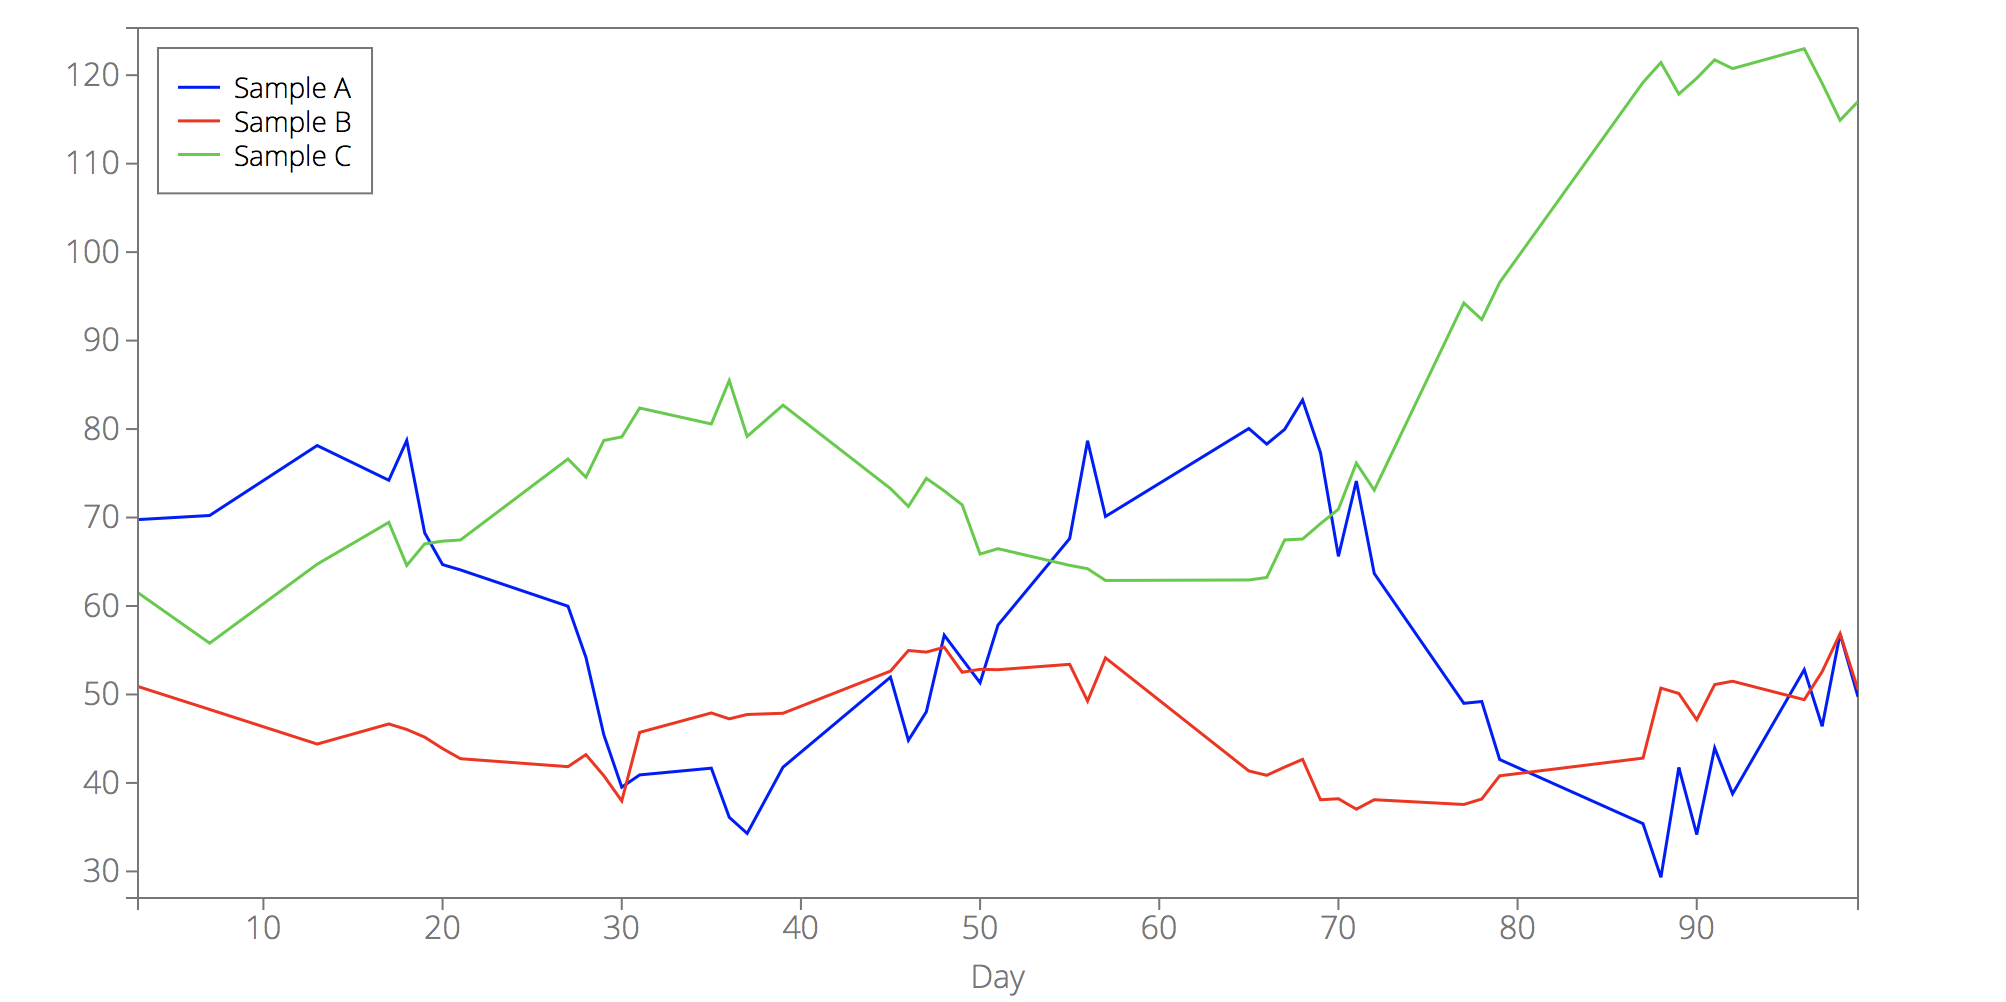
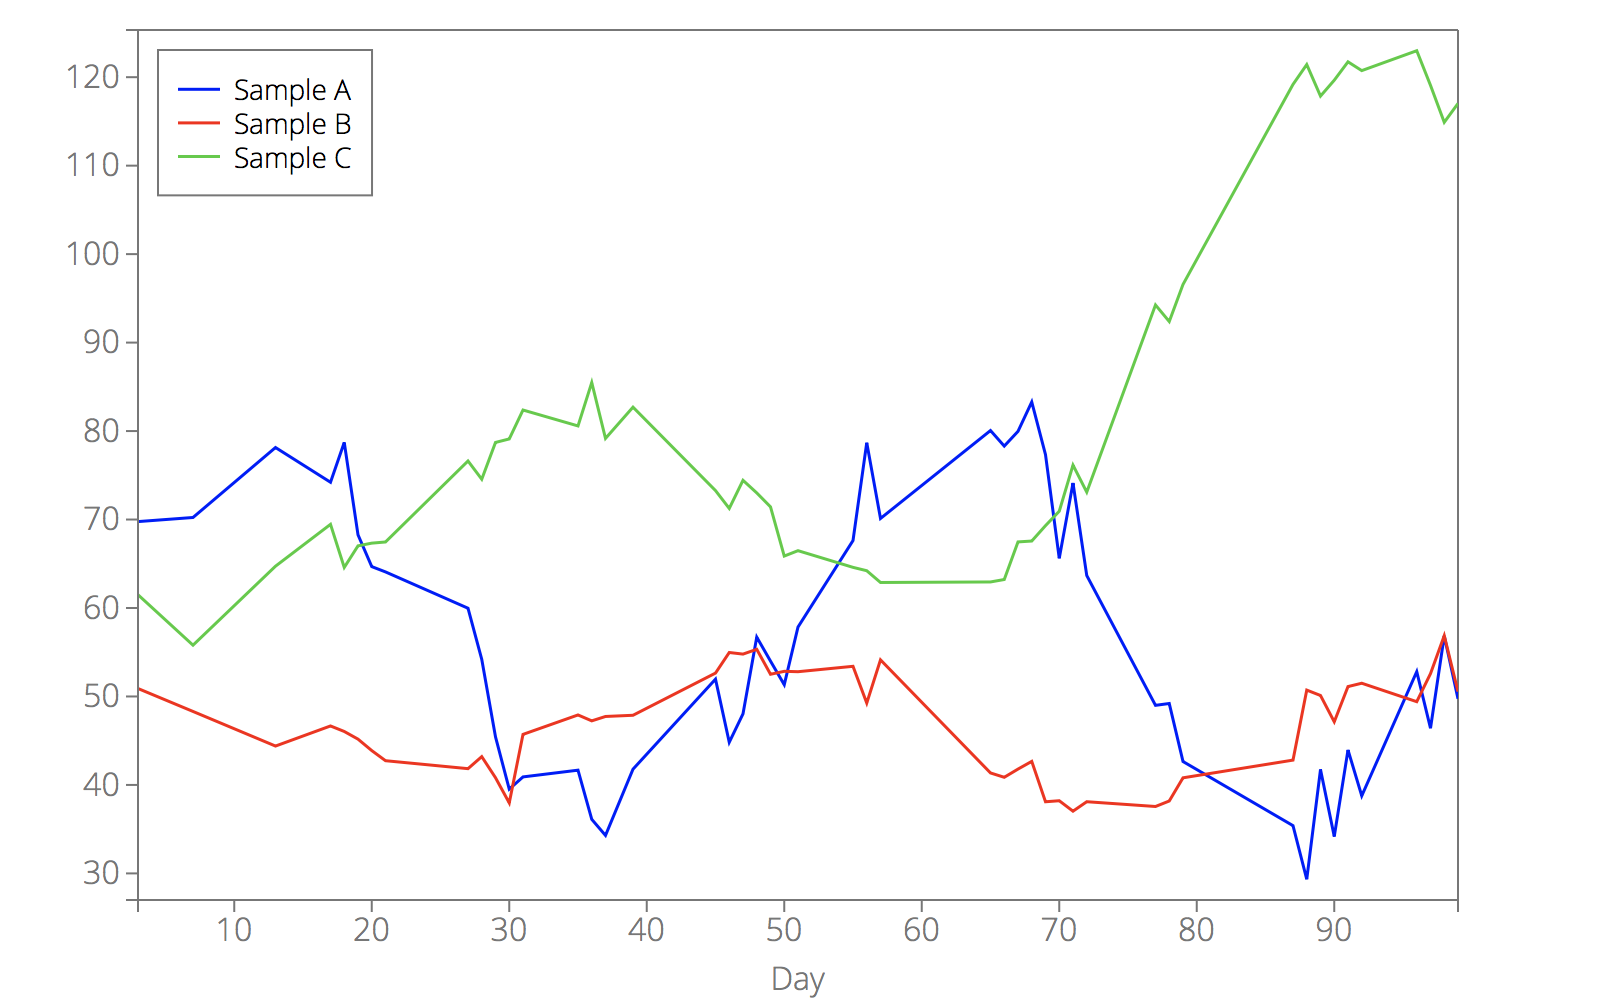
API

diff --git a/tests/test.html b/tests/test.html
@@ -65,7 +65,8 @@ var svg = d3.select("#main-svg");
 d3.csv("example2.csv", function(error, data) {
     var options = {
         data: data,
-        xkey: "Day"
+        xkey: "Day",
+        line_color: ["steelblue", "#f77", "rgb(250, 120, 240)"],
     };
     d3lines.plot(svg, options);
 });

diff --git a/d3lines.js b/d3lines.js
@@ -11,7 +11,7 @@ var d3lines = (function () {
 
         DEFAULT_PLOT_TYPE = "line",
 
-        DEFAULT_WIDTH = 1000,
+        DEFAULT_WIDTH = 800,
         DEFAULT_HEIGHT = 500,
         DEFAULT_MARGINS = {
             top: 15,

diff --git a/API.md b/API.md
@@ -70,6 +70,7 @@ We split the options into the following categories:
 
 #### <a name="plot_options_category_data"></a>Data options
 
+<!-- DATA -->
 <a name="plot_option_data"></a>**`data`** - the data that you want to display.
 
 `d3lines.plot` accepts several data types:
@@ -147,6 +148,7 @@ var data = [[67.3, 56.5],
 
 See [d3lines.Data](#Data) for details.
 
+<!-- XKEY -->
 <a name="plot_option_xkey"></a>**`xkey`** - the name of the data field for the x-axis. `xkey` should be the name of an existing key/field in your data (or existing column in your `.csv` file).
 
 Suppose that you have the following `example2.csv`:
@@ -203,7 +205,7 @@ Day,Sample A,Sample B,Sample C
 99,49.736711926,50.5512701401,117.028862561
 ```
 
-In this case, there will be three possible `xkey` values (`"Day"`, `"In"` or `"Out"`). For example:
+In this case, there are four columns and four possible `xkey` values (`"Day"`, `"Sample A"`, `"Sample B"` or `"Sample C"`). For example:
 
 ```javascript
 d3.csv("example2.csv", function(error, data) {
@@ -219,8 +221,39 @@ d3.csv("example2.csv", function(error, data) {
 
 #### <a name="plot_options_category_lines"></a>Line options
 
-<a name="plot_option_line_color"></a>**`line_color`** - a color or an array of colors for the lines.
+<!-- LINE_COLOR -->
+<a name="plot_option_line_color"></a>**`line_color`** - a color or an array of colors for the lines. The colors are the ones supported by D3 and can be any CSS color representation (rgb, hex, named color, ...).
 
+If `line_color` is a string, all lines will have the same color. For example:
+
+```javascript
+d3.csv("example2.csv", function(error, data) {
+    var options = {
+        data: data,
+        xkey: "Day",
+        line_color: "blue",
+    };
+    d3lines.plot(svg, options);
+});
+```
+
+<p align="center"><img src="/images/API/plot/option_line_color_1.png" width="600"></p>
+
+If `line_color` is an array (of strings), the first line will have the first color, the second line the second color, ...
+If the array length is less than the number of lines, the color will be repeated.
+
+```javascript
+d3.csv("example2.csv", function(error, data) {
+    var options = {
+        data: data,
+        xkey: "Day",
+        line_color: ["steelblue", "#f77", "rgb(250, 120, 240)"],
+    };
+    d3lines.plot(svg, options);
+});
+```
+
+<p align="center"><img src="/images/API/plot/option_line_color_2.png" width="600"></p>
 
 <a name="plot_option_line_width"></a>**`line_width`** - a width/thickness or an array of widths for the lines.
 
